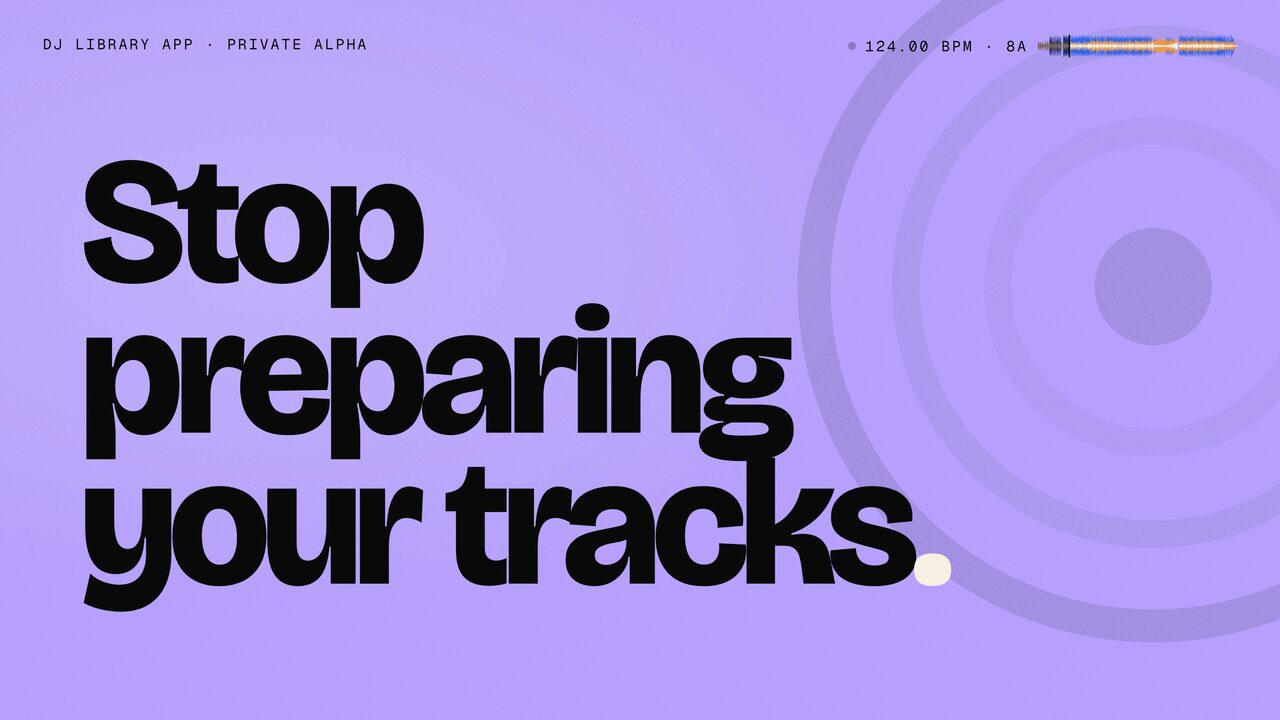
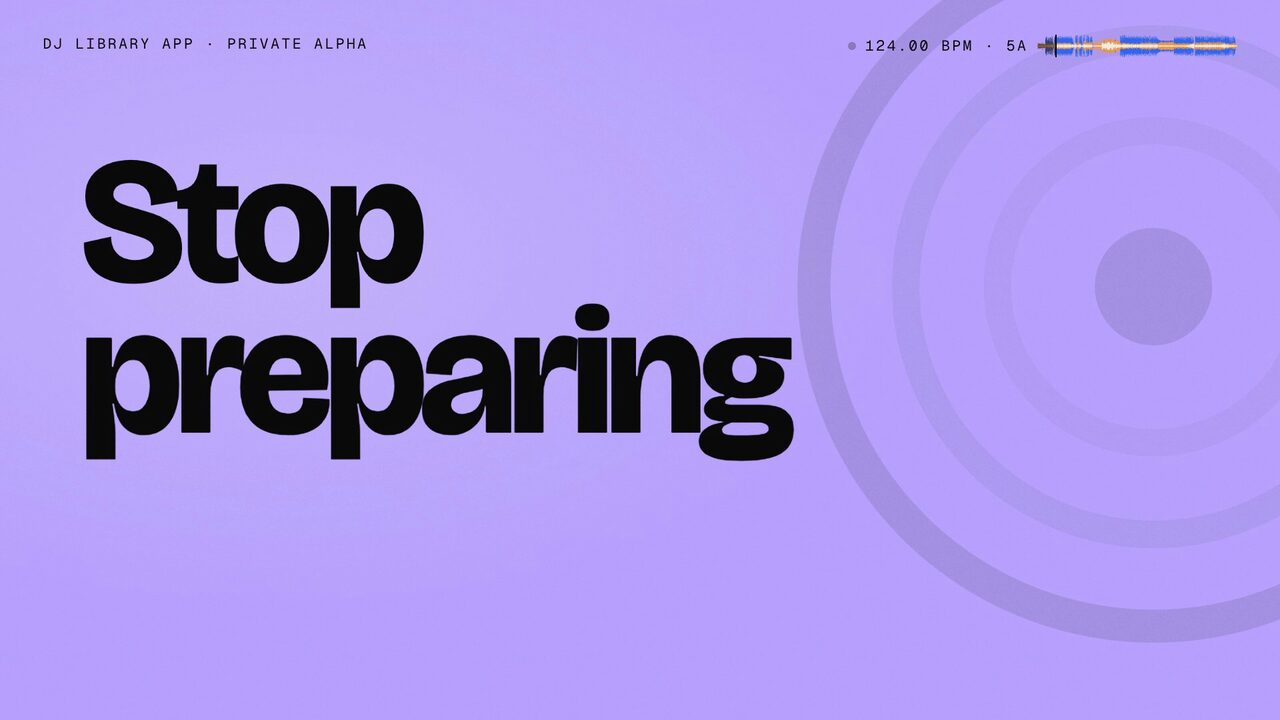
The 90-second launch film plays from its GitHub release; the video file leaves the repository

diff --git a/site/index.html b/site/index.html
@@ -58,7 +58,7 @@
         <h1 class="display reveal"><span>Stop preparing</span><span>your tracks<i class="dot" aria-hidden="true"></i></span></h1>
         <p class="hero-steps reveal">Download&nbsp;them. Drop&nbsp;them&nbsp;in&nbsp;Solco. Find&nbsp;them&nbsp;<span class="scale">on&nbsp;stage</span>.</p>
         <p class="lead reveal"><b>Solco prepares them for you.</b> It grids every track you add, keys it, hears its genre and character, fixes its tags and files it into smart playlists. Then it writes the USB drive your CDJs read, no rekordbox needed. Keep doing any of it by hand if you like. <b>You just don't have to anymore.</b></p>
-        <button class="film-btn reveal" type="button" data-film-open aria-haspopup="dialog"><span class="film-play" aria-hidden="true"><svg viewBox="0 0 24 24"><path d="M8 5.5v13l11-6.5z"/></svg></span>Watch the 60-second film</button>
+        <button class="film-btn reveal" type="button" data-film-open aria-haspopup="dialog"><span class="film-play" aria-hidden="true"><svg viewBox="0 0 24 24"><path d="M8 5.5v13l11-6.5z"/></svg></span>Watch the 90-second film</button>
       </div>
       <aside class="join reveal" id="waitlist" aria-labelledby="join-h">
         <h2 id="join-h">Join the waitlist</h2>

diff --git a/site/assets/js/site.js b/site/assets/js/site.js
@@ -191,11 +191,16 @@
   if (film && filmVideo) {
     const close = () => { filmVideo.pause(); film.close(); };
     document.querySelectorAll('[data-film-open]').forEach(b => b.addEventListener('click', () => {
-      if (!filmVideo.src) filmVideo.src = 'media/solco-launch.mp4';
+      if (!filmVideo.src) filmVideo.src = 'https://github.com/crmne/solco-site/releases/download/film-v5/solco-launch-web-1080p.mp4';
       film.showModal(); filmVideo.play().catch(() => {});
       if (window.plausible) window.plausible('Film play');
     }));
     film.querySelector('[data-film-close]').addEventListener('click', close);
+    // If a browser won't play the file from the release, offer it directly instead of a broken player.
+    filmVideo.addEventListener('error', () => {
+      if (film.querySelector('.film-fallback')) return;
+      film.querySelector('.film-frame').insertAdjacentHTML('beforeend', '<a class="film-fallback" href="https://github.com/crmne/solco-site/releases/download/film-v5/solco-launch-web-1080p.mp4" target="_blank" rel="noopener">Open the film</a>');
+    });
     film.addEventListener('click', e => { if (e.target === film) close(); });
     film.addEventListener('close', () => filmVideo.pause());
   }

diff --git a/site/assets/css/site.css b/site/assets/css/site.css
@@ -468,3 +468,4 @@ dialog.film::backdrop { background: rgba(4, 4, 6, .86); backdrop-filter: blur(6p
 .film-close { position: absolute; top: 12px; right: 12px; width: 40px; height: 40px; border-radius: 50%; border: 0; display: grid; place-items: center; background: rgba(0,0,0,.55); color: #fff; cursor: pointer; }
 .film-close svg { width: 18px; height: 18px; fill: none; stroke: currentColor; stroke-width: 2; stroke-linecap: round; }
 .film-close:hover { background: rgba(0,0,0,.8); }
+.film-fallback { position: absolute; inset: 0; display: grid; place-items: center; color: #fff; font-weight: 600; font-size: 18px; text-decoration: underline; text-underline-offset: 4px; background: rgba(0,0,0,.6); }
